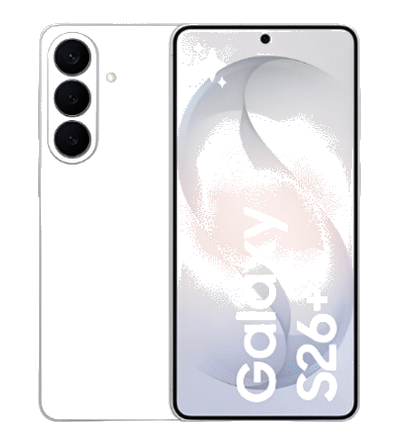
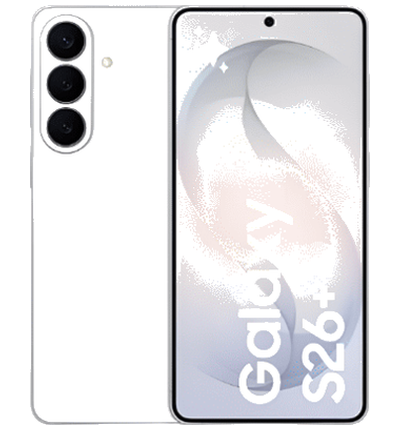
/plus: S26/S26+ 폰 사이즈 캔버스에 꽉 차게 확대(400x430, 폰 420px) + 캐시버스터 v5

diff --git a/plus/index.html b/plus/index.html
@@ -247,7 +247,7 @@ footer{padding:16px 0 68px;text-align:center;font-size:10px;color:#bbb;border-to
   <div class="flag-grid">
     <div class="flag-card">
       <div class="flag-img" style="background:#fff">
-        <img src="../s26_phone.png" alt="Galaxy S26">
+        <img src="../s26_phone.png?v=5" alt="Galaxy S26">
       </div>
       <div class="flag-body">
         <h3>Galaxy S26</h3>
@@ -258,7 +258,7 @@ footer{padding:16px 0 68px;text-align:center;font-size:10px;color:#bbb;border-to
     </div>
     <div class="flag-card">
       <div class="flag-img" style="background:#fff">
-        <img src="../s26plus_phone.png" alt="Galaxy S26+">
+        <img src="../s26plus_phone.png?v=5" alt="Galaxy S26+">
       </div>
       <div class="flag-body">
         <h3>Galaxy S26+</h3>
